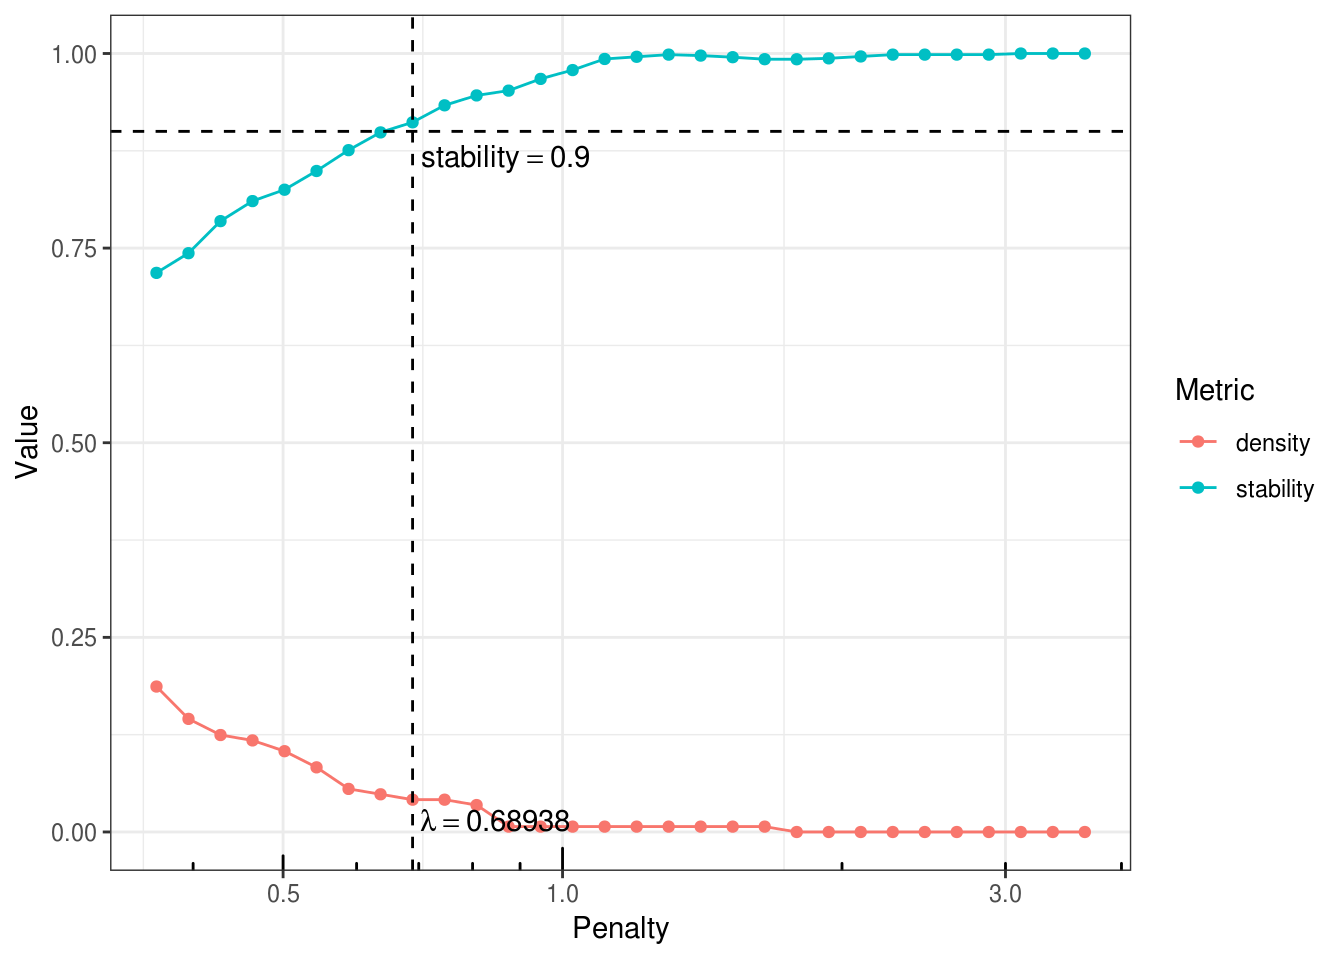
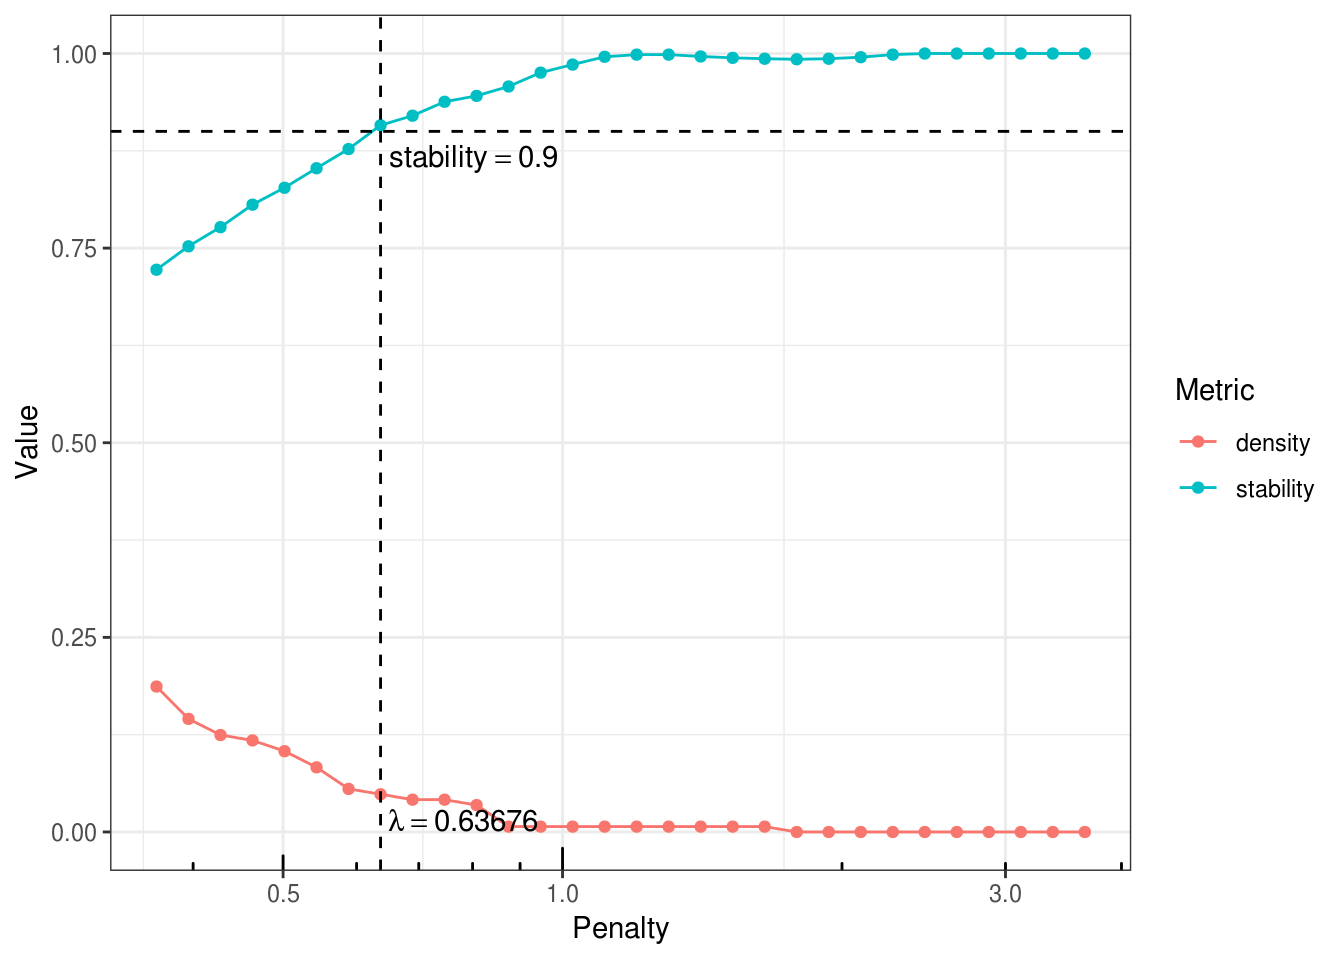
Deploy jchiquet/PLNmodels to github.com/jchiquet/PLNmodels.git:gh-pages

diff --git a/articles/PLNnetwork.html b/articles/PLNnetwork.html
@@ -437,12 +437,12 @@
 </h3>
 <p>The variables <code>model_BIC</code>, <code>model_StARS</code> and <code>model_pen</code> are other <code>R6Class</code> objects with class <code>PLNnetworkfit</code>. They all inherits from the class <code>PLNfit</code> and thus own all its methods, with a couple of specific one, mostly for network vizualization purposes. Most fields and methods are recalled when such an object is printed:</p>
 <div class="sourceCode" id="cb17"><pre class="sourceCode r"><code class="sourceCode r"><a class="sourceLine" id="cb17-1" data-line-number="1">model_StARS</a></code></pre></div>
-<pre><code>## Poisson Lognormal with sparse inverse covariance (penalty = 0.689)
+<pre><code>## Poisson Lognormal with sparse inverse covariance (penalty = 0.637)
 ## ==================================================================
-##  nb_param    loglik       BIC       ICL R_squared n_edges     EBIC
-##        23 -1176.952 -1221.708 -2508.402     0.964       6 -1231.07
+##  nb_param    loglik       BIC      ICL R_squared n_edges     EBIC
+##        24 -1174.595 -1221.297 -2507.99     0.964       7 -1231.68
 ##  pen_loglik density
-##   -1180.199   0.042
+##   -1177.687   0.048
 ## ==================================================================
 ## * Useful fields
 ##     $model_par, $latent, $var_par, $optim_par
@@ -459,12 +459,12 @@
 <p>Here, an igraph object can be recovered.</p>
 <div class="sourceCode" id="cb20"><pre class="sourceCode r"><code class="sourceCode r"><a class="sourceLine" id="cb20-1" data-line-number="1">my_graph &lt;-<span class="st"> </span><span class="kw"><a href="https://www.rdocumentation.org/packages/graphics/topics/plot">plot</a></span>(model_StARS, <span class="dt">plot =</span> <span class="ot">FALSE</span>)</a>
 <a class="sourceLine" id="cb20-2" data-line-number="2">my_graph</a></code></pre></div>
-<pre><code>## IGRAPH 7f1dc38 UNW- 17 6 -- 
+<pre><code>## IGRAPH 82d2dea UNW- 17 7 -- 
 ## + attr: name (v/c), label (v/c), label.cex (v/n), size (v/n),
 ## | label.color (v/c), frame.color (v/l), weight (e/n), color (e/c),
 ## | width (e/n)
-## + edges from 7f1dc38 (vertex names):
-## [1] Hym--Hsp Aga--Hsp Set--All Set--Hsp Han--Sta Hfo--Hsp</code></pre>
+## + edges from 82d2dea (vertex names):
+## [1] Hym--Hsp Aga--Hfo Aga--Hsp Set--All Set--Hsp Han--Sta Hfo--Hsp</code></pre>
 <div class="sourceCode" id="cb22"><pre class="sourceCode r"><code class="sourceCode r"><a class="sourceLine" id="cb22-1" data-line-number="1"><span class="kw"><a href="https://www.rdocumentation.org/packages/graphics/topics/plot">plot</a></span>(model_BIC)</a></code></pre></div>
 <p><img src="PLNnetwork_files/figure-html/partial_corr_network-1.png" width="672"></p>
 <div class="sourceCode" id="cb23"><pre class="sourceCode r"><code class="sourceCode r"><a class="sourceLine" id="cb23-1" data-line-number="1"><span class="kw"><a href="https://www.rdocumentation.org/packages/graphics/topics/plot">plot</a></span>(model_StARS)</a></code></pre></div>
